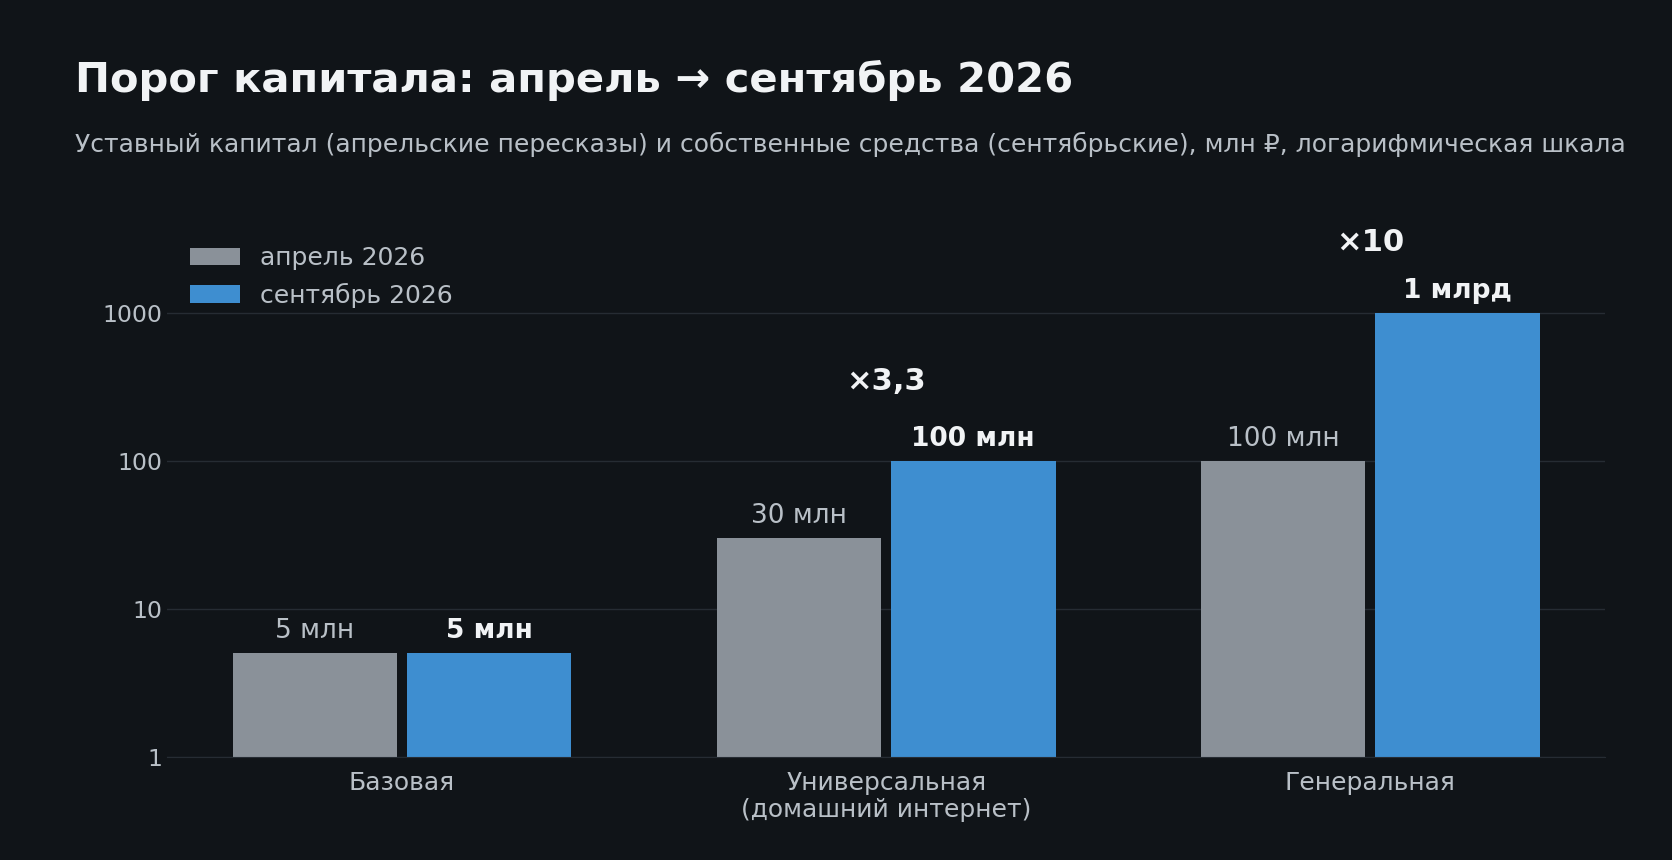
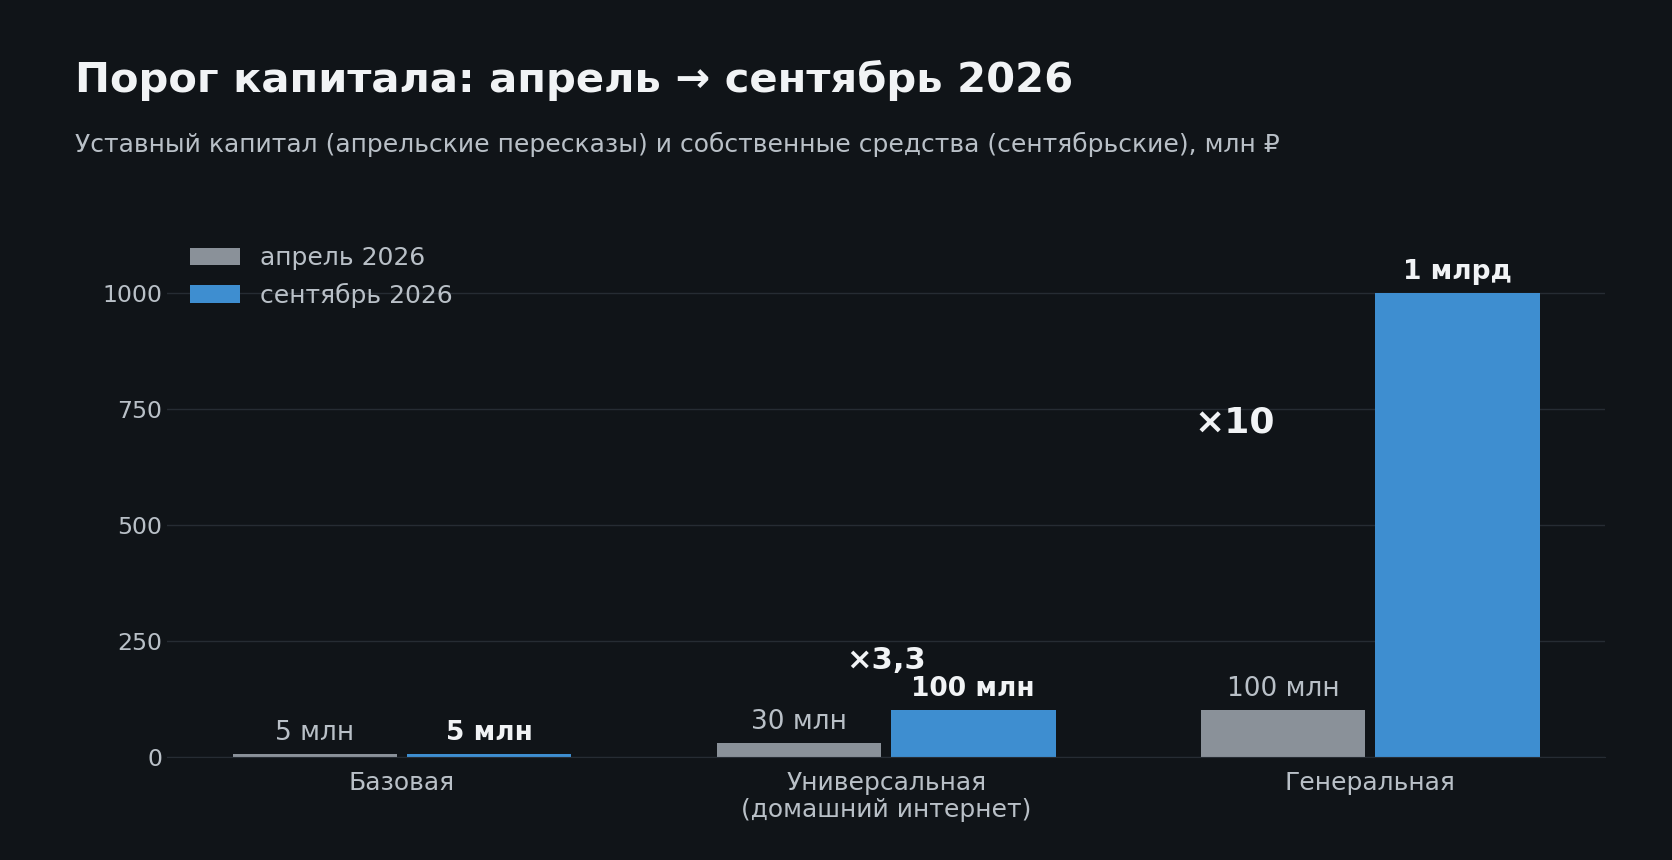
27 регионов: диаграммы капитала и взноса в линейной шкале
Логарифмическая шкала скрывала масштаб разрыва. Порог капитала теперь показан в линейной шкале — миллиард генеральной лицензии рядом с 5 млн базовой. Диаграмма взноса перестроена в долю от медианной годовой прибыли: около 714% для операторов с выручкой до 10 млн, 71%, 20% и меньше 1% для крупнейших; текст статьи обновлён соответственно.

diff --git a/DPI/isp-licensing-27-regions-september-2026.md b/DPI/isp-licensing-27-regions-september-2026.md
@@ -78,7 +78,7 @@ image: DPI/attachments/isp-licensing-27-regions-header.webp
 > [!note] Расхождения в пересказах
 > У требования к покрытию универсальной лицензии издания пишут то «30% муниципальных образований **и** 15% многоквартирных домов», то «**или**». Для генеральной лицензии в апреле называли узлы связи в двух третях регионов, в сентябре — от трёх субъектов до трети регионов. До публикации текста законопроекта точную формулировку проверить нельзя.
 
-Сильнее всего вырос порог для универсальной лицензии, без которой нельзя продавать домашний интернет, — примерно в 3,3 раза, и для генеральной — в 10 раз. На диаграмме шкала логарифмическая: каждое деление больше предыдущего в 10 раз, иначе базовую лицензию рядом с миллиардом было бы не разглядеть.
+Порог для универсальной лицензии, без которой нельзя продавать домашний интернет, вырос примерно в 3,3 раза, для генеральной — в 10 раз. Рядом с новым миллиардом для генеральной лицензии столбики базовой почти не видны — это и есть реальное соотношение порогов.
 
 ![[isp-licensing-27-regions-capital-april-september.png]]
 
@@ -149,7 +149,7 @@ image: DPI/attachments/isp-licensing-27-regions-header.webp
 
 **Малые населённые пункты.** В посёлках работают операторы с оборотом 5–10 млн руб. в год. Для них фиксированный взнос в 1 млн руб. — это около 10% выручки, «больше, чем налоги». Запаса прочности у таких компаний нет: по данным ассоциаций, медианная прибыль операторов с выручкой до 10 млн руб. — около 140 тыс. руб. в год (рентабельность около 4,8%). Фиксированный миллион съедает прибыль нескольких лет.
 
-Для сравнения: у операторов с выручкой 10–50 млн руб. медианная прибыль около 1,4 млн руб. в год, и миллионный взнос забирает из неё больше двух третей. У компаний с выручкой 50–100 млн — около 4,89 млн, а у компаний крупнее 1 млрд прибыль превышает 160 млн руб., и для них тот же миллион — меньше процента. Фиксированный взнос одинаков для всех, поэтому чем меньше оператор, тем сильнее он бьёт.
+Для сравнения: у операторов с выручкой 10–50 млн руб. медианная прибыль около 1,4 млн руб. в год, и миллионный взнос забирает из неё больше двух третей. У компаний с выручкой 50–100 млн — около 4,89 млн, а у компаний крупнее 1 млрд прибыль превышает 160 млн руб., и для них тот же миллион — меньше процента. Фиксированный взнос одинаков для всех, поэтому чем меньше оператор, тем сильнее он бьёт: для самых мелких он примерно в 7 раз больше годовой прибыли (около 714%), а для крупнейших — меньше процента.
 
 ![[isp-licensing-27-regions-fee-vs-profit.png]]
 
